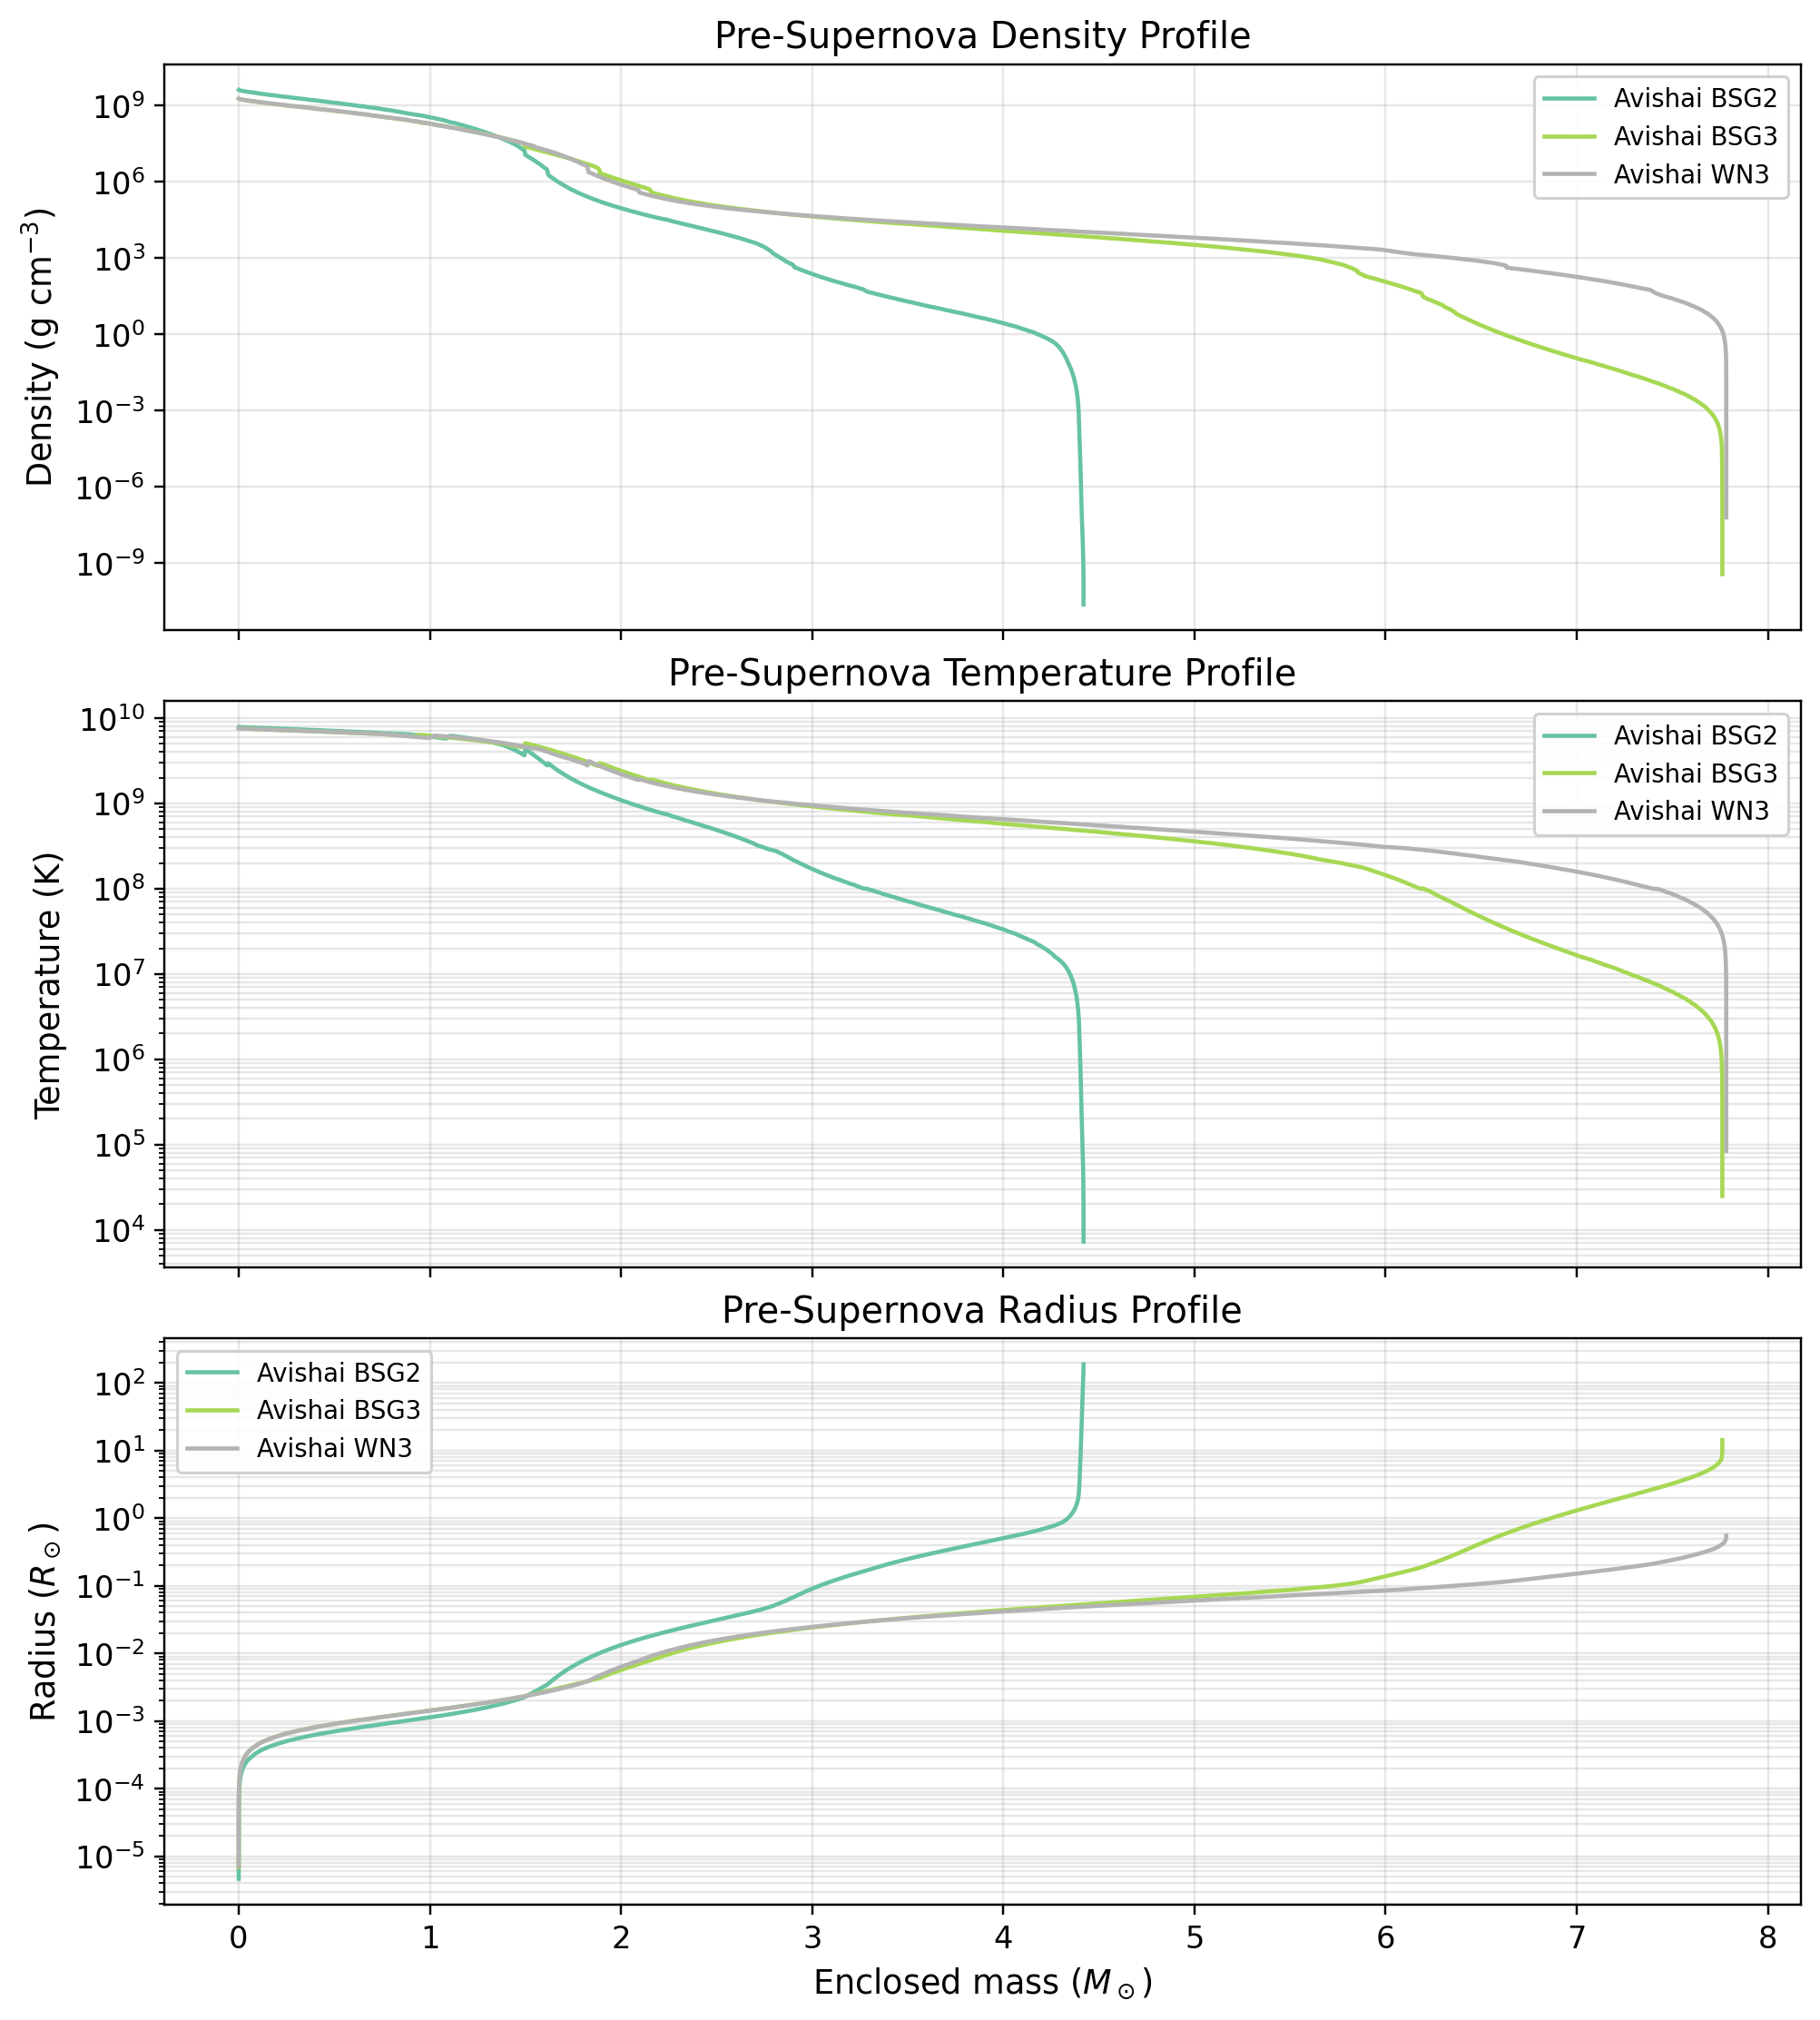
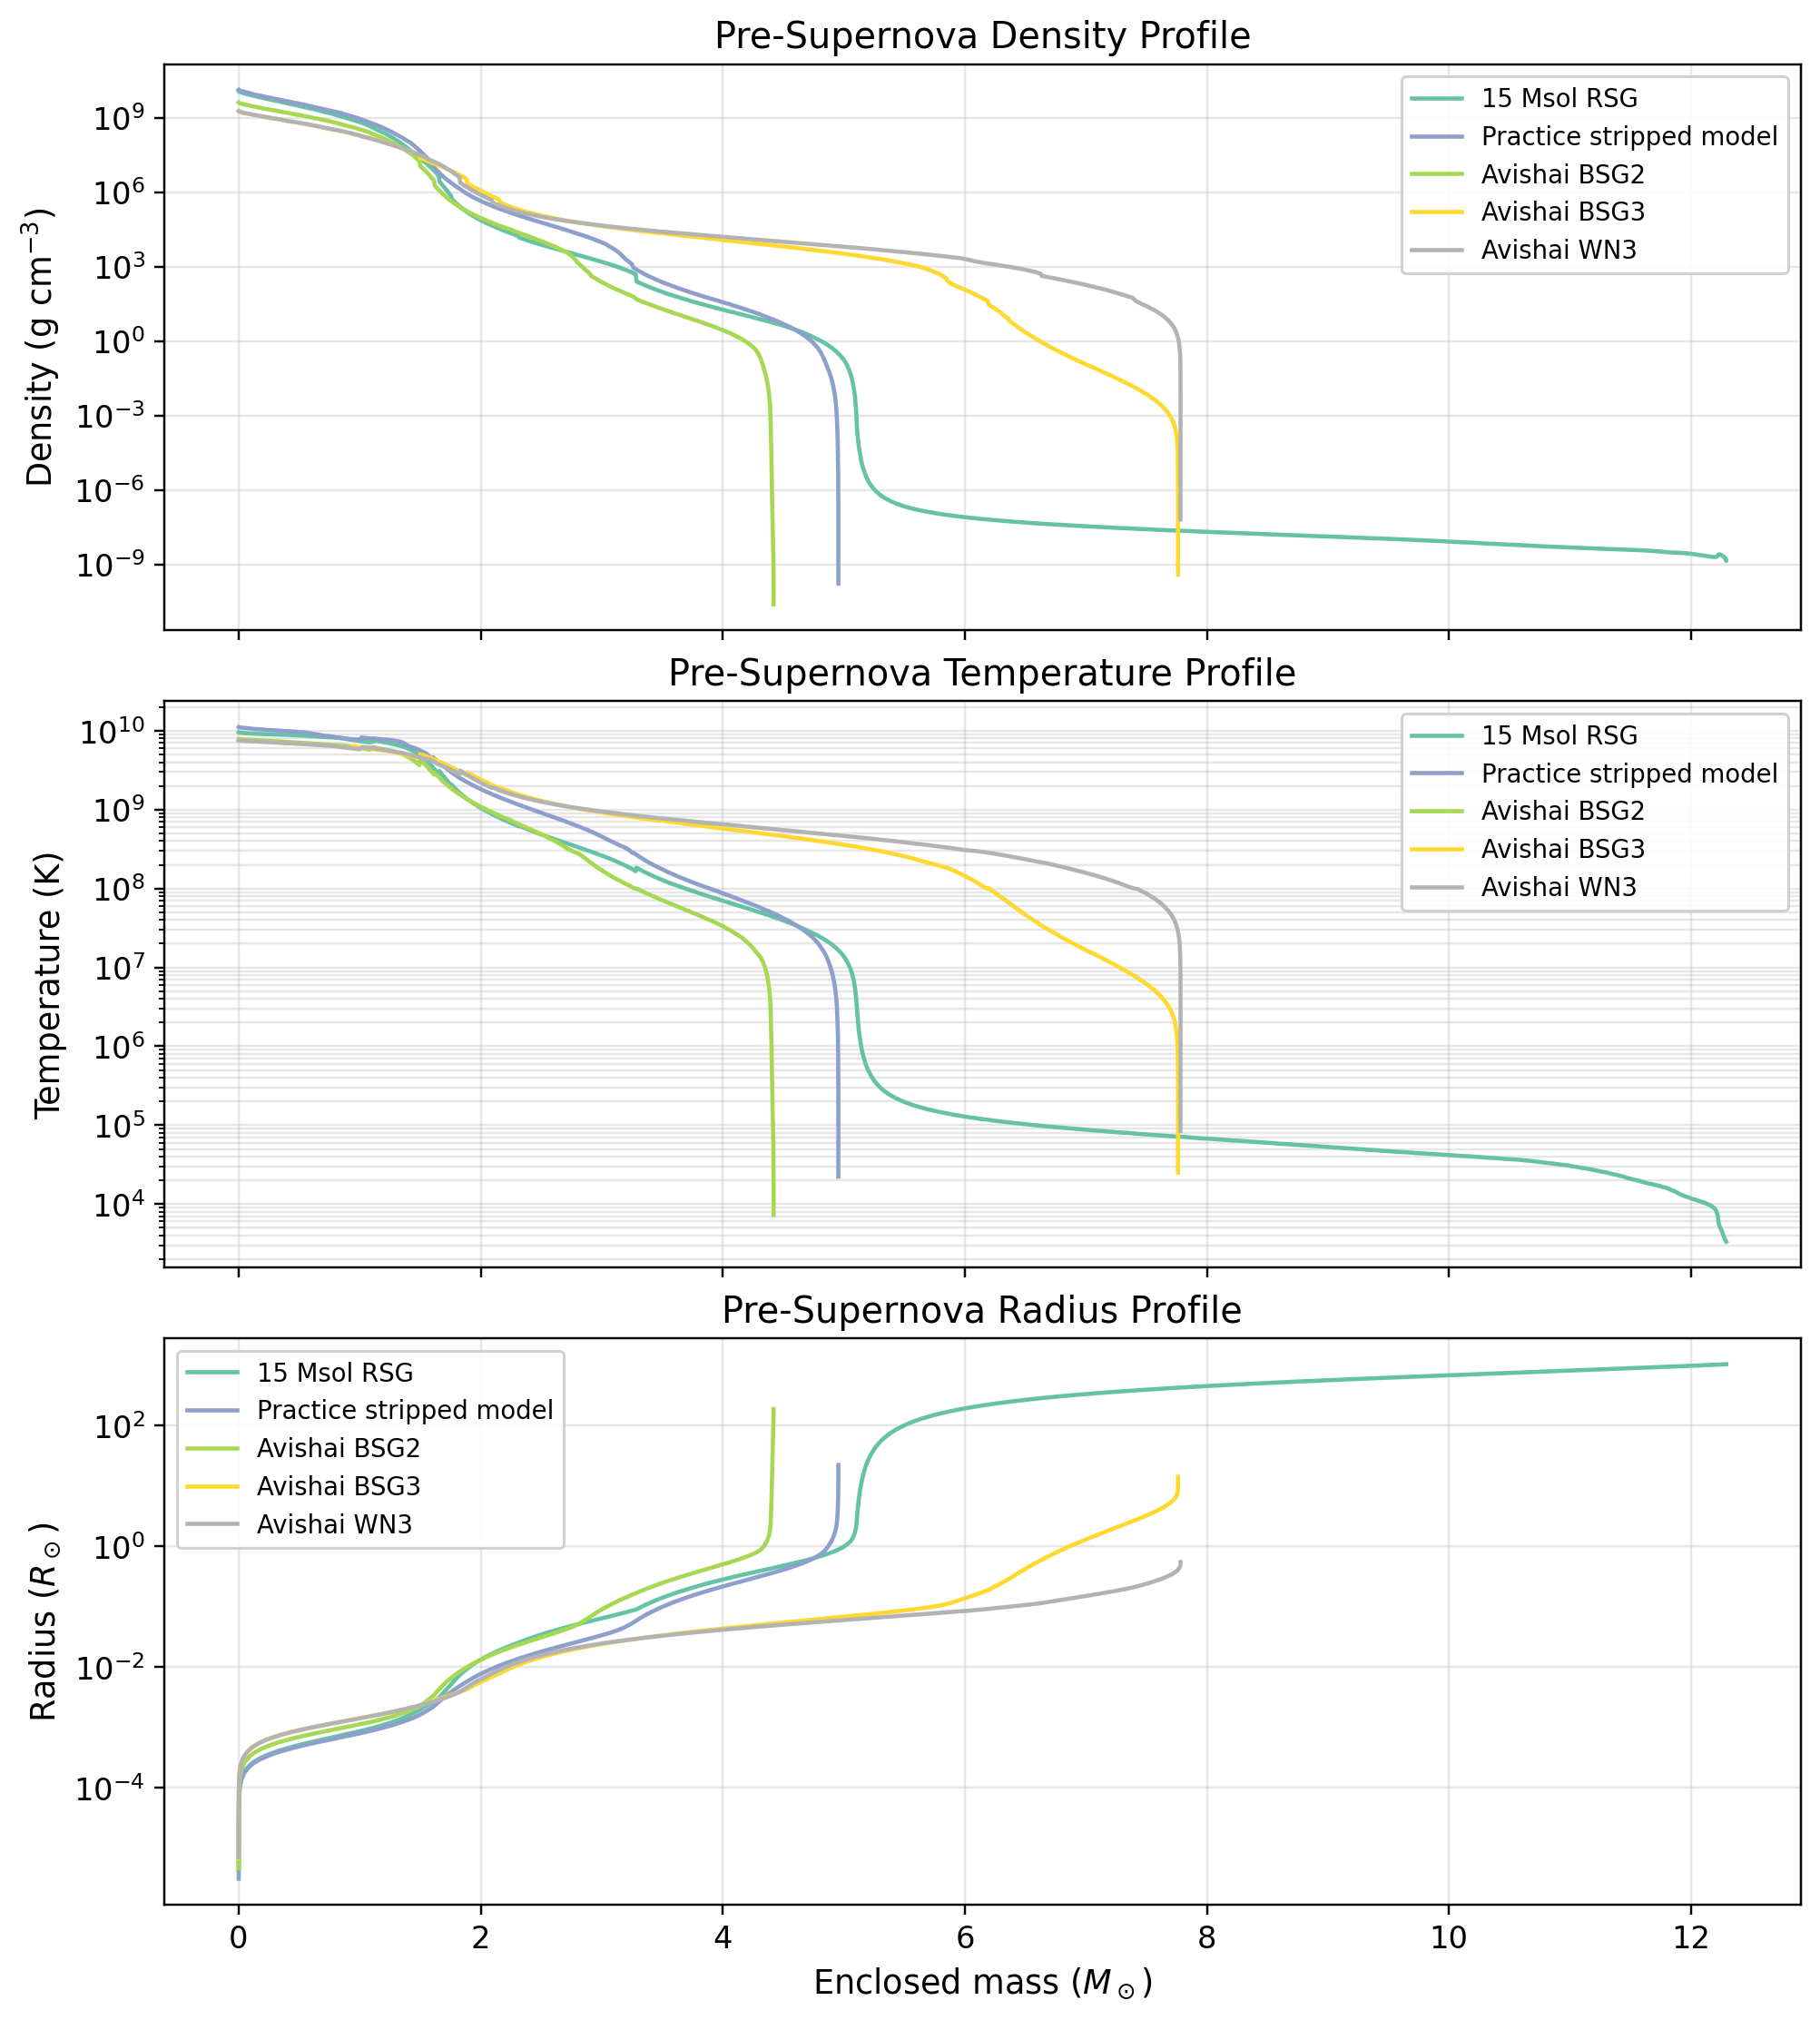
Final mass versus surface radius for Avishai Models and Practice Stripped Model

diff --git a/scripts/plot_stellar_profile.py b/scripts/plot_stellar_profile.py
@@ -201,6 +201,43 @@ def plot_composition(profiles: list[StellarProfile], output_path: Path) -> None:
     plt.close(fig)
 
 
+def plot_endpoint_mass_radius(profiles: list[StellarProfile], output_path: Path) -> None:
+    fig, ax = plt.subplots(figsize=(8, 5.5), constrained_layout=True)
+    colors = plt.cm.Set2(np.linspace(0.1, 0.9, len(profiles)))
+
+    for profile, color in zip(profiles, colors):
+        final_mass = profile.mass_msun[-1]
+        surface_radius = profile.radius_rsun[-1]
+        ax.scatter(
+            final_mass,
+            surface_radius,
+            s=95,
+            color=color,
+            edgecolor="black",
+            linewidth=0.7,
+            zorder=3,
+            label=profile.name,
+        )
+        ax.annotate(
+            profile.name,
+            xy=(final_mass, surface_radius),
+            xytext=(6, 6),
+            textcoords="offset points",
+            fontsize=9,
+        )
+
+    ax.set_title("Evolutionary Endpoints: Final Mass vs Surface Radius")
+    ax.set_xlabel(r"Final mass ($M_\odot$)")
+    ax.set_ylabel(r"Surface radius ($R_\odot$)")
+    ax.set_yscale("log")
+    ax.grid(True, which="both", alpha=0.3)
+    ax.legend(loc="lower right", framealpha=0.9)
+
+    output_path.parent.mkdir(parents=True, exist_ok=True)
+    fig.savefig(output_path)
+    plt.close(fig)
+
+
 def main() -> None:
     parser = argparse.ArgumentParser(description=__doc__)
     parser.add_argument(
@@ -234,9 +271,14 @@ def main() -> None:
 
     plot_structure(profiles, args.output_dir / "stellar_structure_compare.png")
     plot_composition(profiles, args.output_dir / "stellar_composition_profiles.png")
+    plot_endpoint_mass_radius(profiles, args.output_dir / "evolutionary_endpoints_mass_radius.png")
 
     print(f"Saved stellar structure plot to {args.output_dir / 'stellar_structure_compare.png'}")
     print(f"Saved composition plot to {args.output_dir / 'stellar_composition_profiles.png'}")
+    print(
+        "Saved endpoint plot to "
+        f"{args.output_dir / 'evolutionary_endpoints_mass_radius.png'}"
+    )
     for profile in profiles:
         print(
             f"{profile.name}: final mass={profile.mass_msun[-1]:.2f} Msol, "